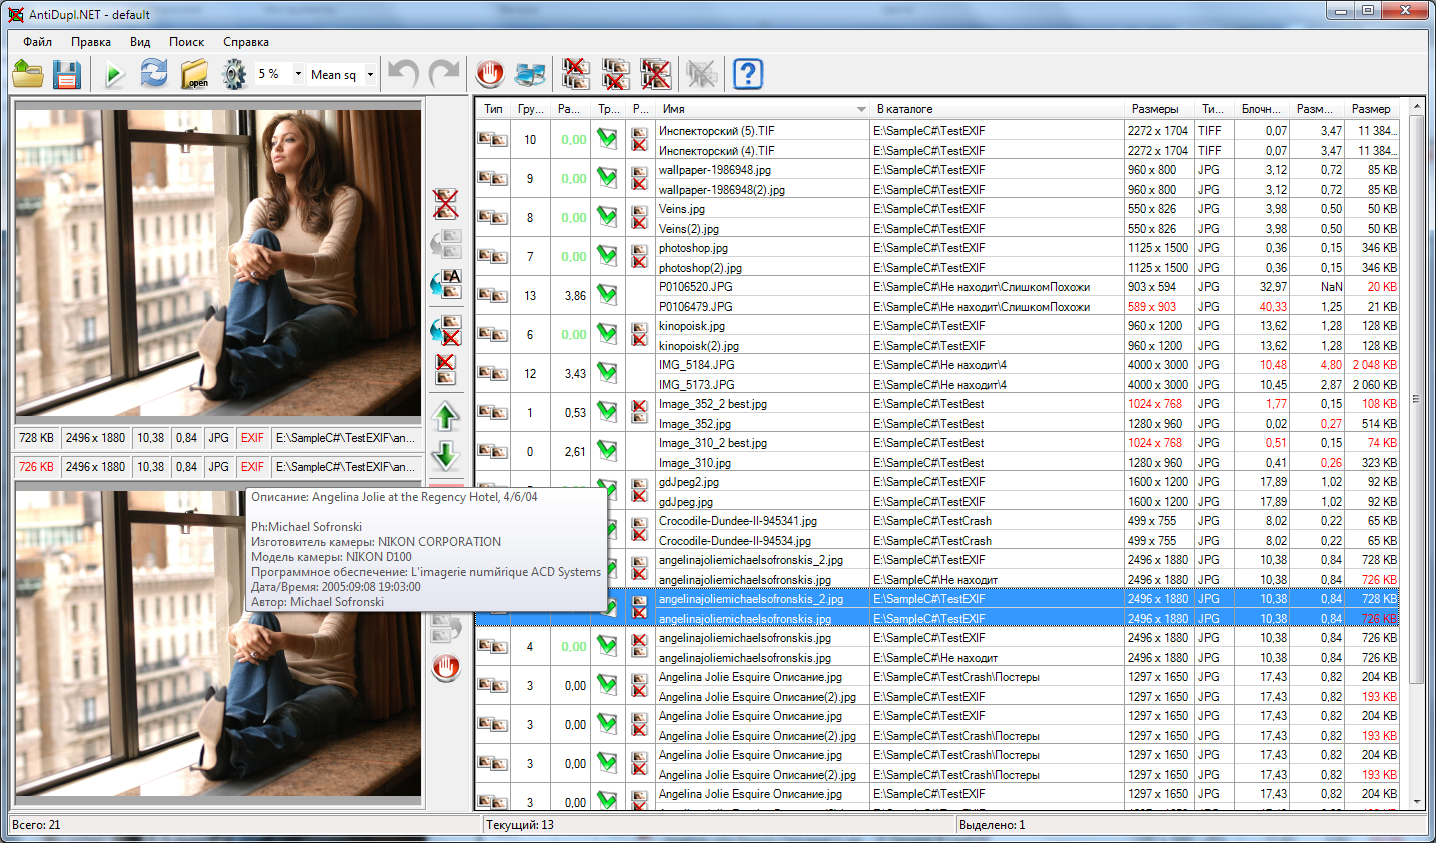
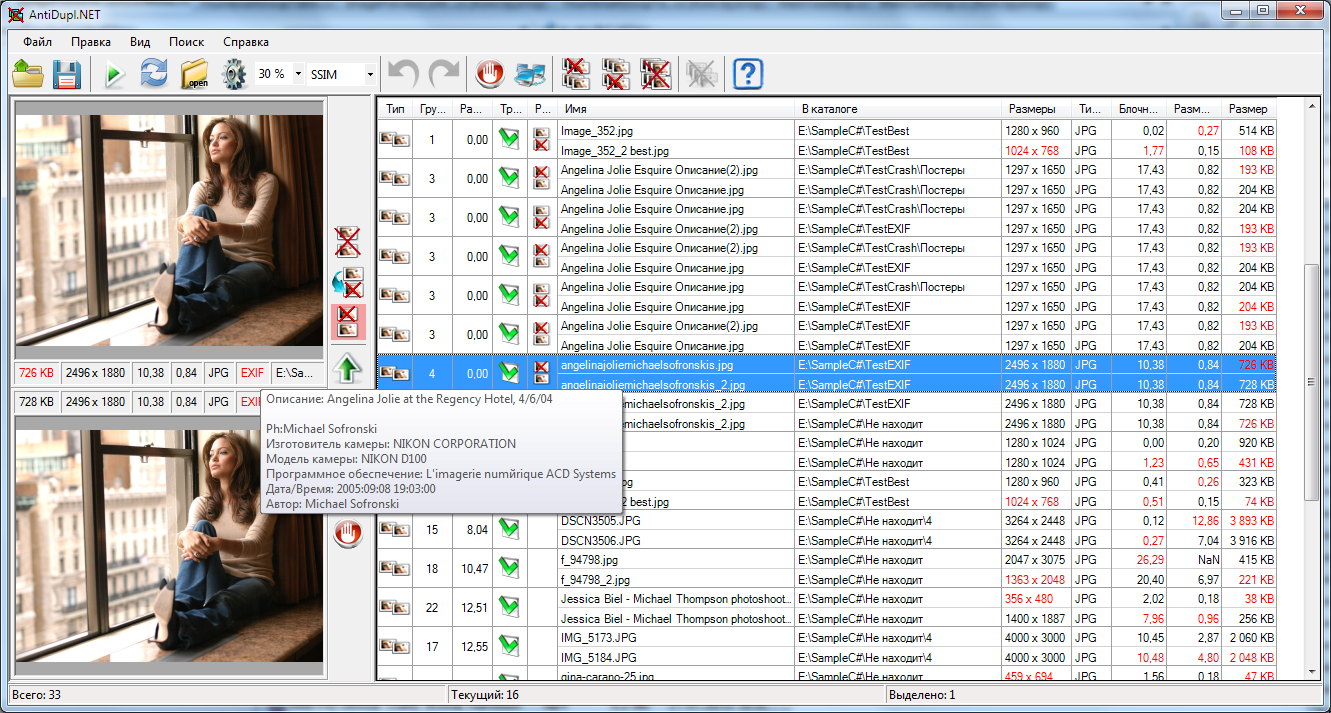
Fix exif compare. Edit help.

diff --git a/src/AntiDupl/AntiDupl.NET/ImagePreviewPanel.cs b/src/AntiDupl/AntiDupl.NET/ImagePreviewPanel.cs
@@ -317,7 +317,7 @@ namespace AntiDupl.NET
         /// </summary>
         private bool ExifEqual(CoreDll.adImageExifW imageExif1, CoreDll.adImageExifW imageExif2)
         {
-            if (imageExif1.isEmpty == imageExif1.isEmpty &&
+            if (imageExif1.isEmpty == imageExif2.isEmpty &&
                 imageExif1.artist.CompareTo(imageExif2.artist) == 0 &&
                 imageExif1.dateTime.CompareTo(imageExif2.dateTime) == 0 &&
                 imageExif1.equipMake.CompareTo(imageExif2.equipMake) == 0 &&

diff --git a/src/AntiDupl/AntiDupl/adImageInfo.cpp b/src/AntiDupl/AntiDupl/adImageInfo.cpp
@@ -80,7 +80,6 @@ namespace ad
         pImageInfo->height = height;
 		pImageInfo->blockiness = blockiness;
 		pImageInfo->blurring = blurring;
-		//imageExif->Export(&pImageInfo->exifInfo);
 		imageExif.Export(&pImageInfo->exifInfo);
 
         return true;
@@ -100,7 +99,6 @@ namespace ad
         pImageInfo->height = height;
 		pImageInfo->blockiness = blockiness;
 		pImageInfo->blurring = blurring;
-		//imageExif->Export(&pImageInfo->exifInfo);
 		imageExif.Export(&pImageInfo->exifInfo);
 
         return true;

diff --git a/src/AntiDupl/AntiDupl/adImageInfo.h b/src/AntiDupl/AntiDupl/adImageInfo.h
@@ -38,7 +38,6 @@ namespace ad
         TUInt32 height;
 		double blockiness;
 		double blurring;
-		//TImageExif* imageExif;
 		TImageExif imageExif;
 
         size_t index;
